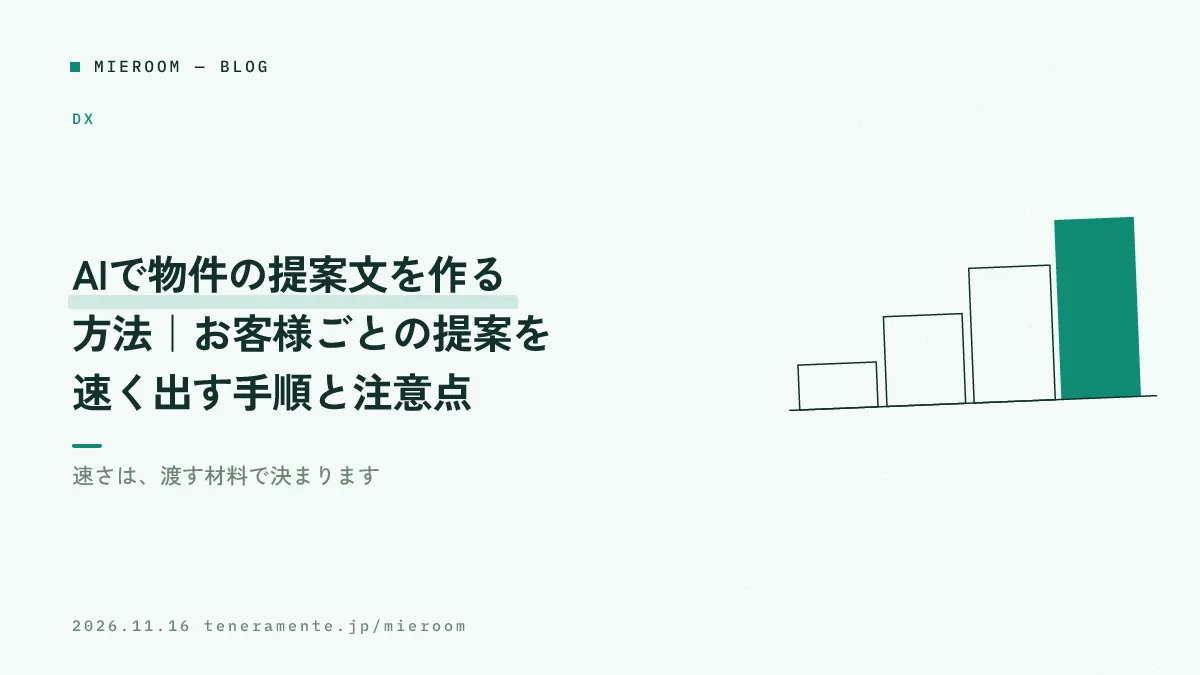
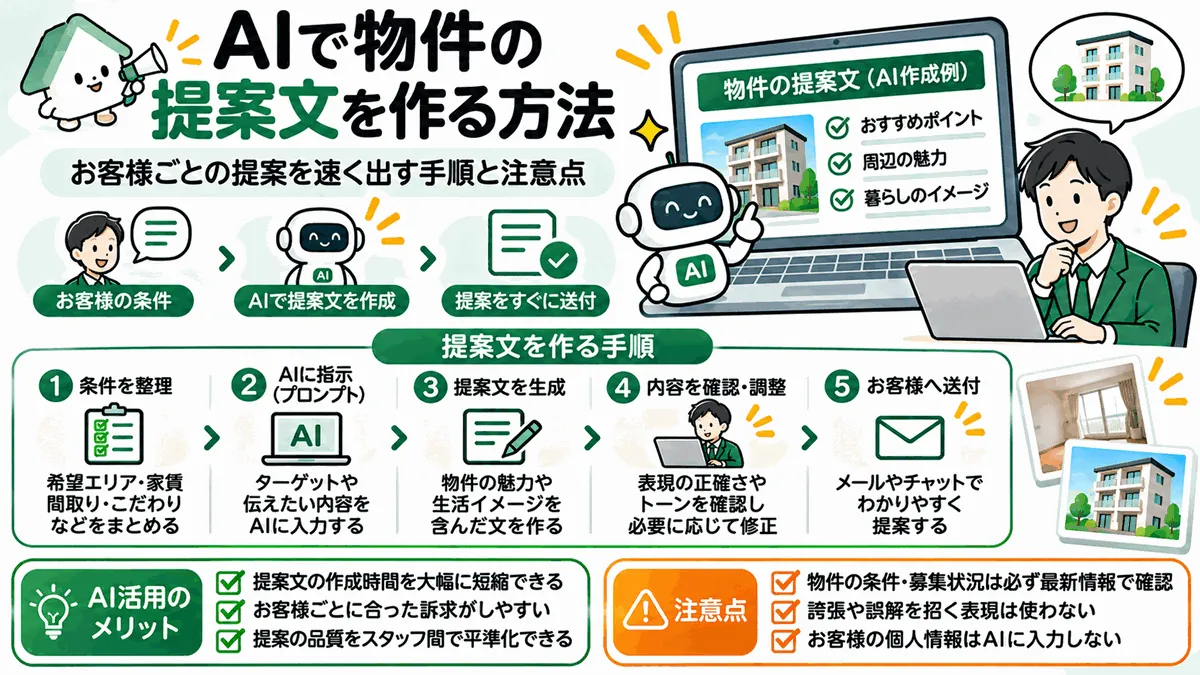
covers: 記事のトップ画像を ChatGPT の画像に差し替え（m112）

diff --git a/mieroom/articles/ai-bukken-teianbun.html b/mieroom/articles/ai-bukken-teianbun.html
@@ -13,12 +13,15 @@
 <meta property="og:description" content="AIで物件の提案文を作るときの手順を、渡す材料・指示文の型・人が確かめる項目に分けて整理しました。お客様の種類ごとの書き分け、任せてはいけない部分、よくある失敗の避け方までまとめています。">
 <meta property="og:url" content="https://mieroom.cloud/articles/ai-bukken-teianbun.html">
 <meta property="og:site_name" content="ミエルーム">
+<meta property="og:image" content="https://mieroom.cloud/assets/covers/ai-bukken-teianbun.png">
+<meta property="og:image:width" content="1200">
+<meta property="og:image:height" content="675">
 <meta name="twitter:card" content="summary_large_image">
 <link rel="preconnect" href="https://fonts.googleapis.com">
 <link rel="preconnect" href="https://fonts.gstatic.com" crossorigin>
 <link href="https://fonts.googleapis.com/css2?family=Noto+Sans+JP:wght@400;500;700;900&family=Zen+Kaku+Gothic+New:wght@500;700;900&display=swap" rel="stylesheet">
 <link rel="stylesheet" href="../assets/site.css">
-<script type="application/ld+json">{"@context":"https://schema.org","@graph":[{"@type":"BlogPosting","headline":"AIで物件の提案文を作る方法｜お客様ごとの提案を速く出す手順と注意点","description":"AIで物件の提案文を作るときの手順を、渡す材料・指示文の型・人が確かめる項目に分けて整理しました。お客様の種類ごとの書き分け、任せてはいけない部分、よくある失敗の避け方までまとめています。","datePublished":"2026-11-16","dateModified":"2026-11-16","inLanguage":"ja","mainEntityOfPage":"https://mieroom.cloud/articles/ai-bukken-teianbun.html","articleSection":"DX","author":{"@type":"Organization","name":"ミエルーム編集部"},"publisher":{"@type":"Organization","name":"株式会社TENERAMENTE","logo":{"@type":"ImageObject","url":"https://teneramente.jp/assets/img/favicon-512.png"}},"keywords":"AI活用, 物件提案, 接客, 追客, 賃貸仲介DX"},{"@type":"BreadcrumbList","itemListElement":[{"@type":"ListItem","position":1,"name":"ミエルーム","item":"https://mieroom.cloud/"},{"@type":"ListItem","position":2,"name":"ブログ","item":"https://mieroom.cloud/blog.html"},{"@type":"ListItem","position":3,"name":"AIで物件の提案文を作る方法｜お客様ごとの提案を速く出す手順と注意点","item":"https://mieroom.cloud/articles/ai-bukken-teianbun.html"}]},{"@type":"FAQPage","mainEntity":[{"@type":"Question","name":"AIが作った提案文を、そのままお客様に送ってよいですか？","acceptedAnswer":{"@type":"Answer","text":"送る前に人が確認してください。賃料や初期費用の数字、空室の状況、設備の有無はAIが知らない情報なので、資料と見比べる作業が必要です。確認したうえで、最後の一文だけは担当者の言葉に書き直すと、定型文の印象になりません。"}},{"@type":"Question","name":"どのAIを使えばよいですか？","acceptedAnswer":{"@type":"Answer","text":"文章の下書きを作る用途であれば、広く使われている生成AIのいずれでも実務に足ります。選ぶ基準は性能よりも、店舗のスタッフ全員が同じものを使えるか、入力した内容の扱いについて利用規約を確認できるか、の2点です。まず1つに決めて、型を共有することを優先してください。"}},{"@type":"Question","name":"お客様の情報を入力しても問題ありませんか？","acceptedAnswer":{"@type":"Answer","text":"お名前・連絡先・勤務先といった個人が特定できる情報は入力しないでください。提案文を作るのに必要なのは、希望条件・予算・入居時期・譲れない条件といった条件の情報だけです。店舗として入力してよい範囲を文字で決め、全員で共有しておくことをおすすめします。"}},{"@type":"Question","name":"文章が毎回似てしまいます。どうすればよいですか？","acceptedAnswer":{"@type":"Answer","text":"勧める理由が渡されていない場合に起こります。物件の事実だけを渡すと、言い換えの文章しか出せません。「このお客様にこの物件を勧める理由」を1〜2行書いて渡してください。理由が違えば、同じ物件でも文章の組み立てが変わります。"}},{"@type":"Question","name":"スタッフに使わせるとき、最初に何を決めればよいですか？","acceptedAnswer":{"@type":"Answer","text":"指示文の型、入力してよい情報の範囲、送信前に確認する項目の3つです。この3つを1枚にまとめて配れば、使い方の説明はほぼ終わります。細かい使いこなしは、使い始めてから持ち寄って型を直していくほうが早く定着します。"}}]}]}</script>
+<script type="application/ld+json">{"@context":"https://schema.org","@graph":[{"@type":"BlogPosting","headline":"AIで物件の提案文を作る方法｜お客様ごとの提案を速く出す手順と注意点","description":"AIで物件の提案文を作るときの手順を、渡す材料・指示文の型・人が確かめる項目に分けて整理しました。お客様の種類ごとの書き分け、任せてはいけない部分、よくある失敗の避け方までまとめています。","datePublished":"2026-11-16","dateModified":"2026-11-16","inLanguage":"ja","mainEntityOfPage":"https://mieroom.cloud/articles/ai-bukken-teianbun.html","image":"https://mieroom.cloud/assets/covers/ai-bukken-teianbun.png","articleSection":"DX","author":{"@type":"Organization","name":"ミエルーム編集部"},"publisher":{"@type":"Organization","name":"株式会社TENERAMENTE","logo":{"@type":"ImageObject","url":"https://teneramente.jp/assets/img/favicon-512.png"}},"keywords":"AI活用, 物件提案, 接客, 追客, 賃貸仲介DX"},{"@type":"BreadcrumbList","itemListElement":[{"@type":"ListItem","position":1,"name":"ミエルーム","item":"https://mieroom.cloud/"},{"@type":"ListItem","position":2,"name":"ブログ","item":"https://mieroom.cloud/blog.html"},{"@type":"ListItem","position":3,"name":"AIで物件の提案文を作る方法｜お客様ごとの提案を速く出す手順と注意点","item":"https://mieroom.cloud/articles/ai-bukken-teianbun.html"}]},{"@type":"FAQPage","mainEntity":[{"@type":"Question","name":"AIが作った提案文を、そのままお客様に送ってよいですか？","acceptedAnswer":{"@type":"Answer","text":"送る前に人が確認してください。賃料や初期費用の数字、空室の状況、設備の有無はAIが知らない情報なので、資料と見比べる作業が必要です。確認したうえで、最後の一文だけは担当者の言葉に書き直すと、定型文の印象になりません。"}},{"@type":"Question","name":"どのAIを使えばよいですか？","acceptedAnswer":{"@type":"Answer","text":"文章の下書きを作る用途であれば、広く使われている生成AIのいずれでも実務に足ります。選ぶ基準は性能よりも、店舗のスタッフ全員が同じものを使えるか、入力した内容の扱いについて利用規約を確認できるか、の2点です。まず1つに決めて、型を共有することを優先してください。"}},{"@type":"Question","name":"お客様の情報を入力しても問題ありませんか？","acceptedAnswer":{"@type":"Answer","text":"お名前・連絡先・勤務先といった個人が特定できる情報は入力しないでください。提案文を作るのに必要なのは、希望条件・予算・入居時期・譲れない条件といった条件の情報だけです。店舗として入力してよい範囲を文字で決め、全員で共有しておくことをおすすめします。"}},{"@type":"Question","name":"文章が毎回似てしまいます。どうすればよいですか？","acceptedAnswer":{"@type":"Answer","text":"勧める理由が渡されていない場合に起こります。物件の事実だけを渡すと、言い換えの文章しか出せません。「このお客様にこの物件を勧める理由」を1〜2行書いて渡してください。理由が違えば、同じ物件でも文章の組み立てが変わります。"}},{"@type":"Question","name":"スタッフに使わせるとき、最初に何を決めればよいですか？","acceptedAnswer":{"@type":"Answer","text":"指示文の型、入力してよい情報の範囲、送信前に確認する項目の3つです。この3つを1枚にまとめて配れば、使い方の説明はほぼ終わります。細かい使いこなしは、使い始めてから持ち寄って型を直していくほうが早く定着します。"}}]}]}</script>
 <style id="mp-nav-fit">
 /* 狭い画面ではヘッダーのボタンを小さくして、右にはみ出さないようにする */
 @media (max-width: 640px) {
@@ -72,7 +75,9 @@
     </div>
   </div>
 </section>
-
+<div class="post-cover">
+  <div class="band band--img"><img src="../assets/covers/ai-bukken-teianbun.webp" alt="AIで物件の提案文を作る方法｜お客様ごとの提案を速く出す手順と注意点" width="1200" height="675" decoding="async"></div>
+</div>
 <div class="post-body">
 <p>AIで物件の提案文を作るときに結果を分けるのは、AIの性能ではなく<strong>渡す材料の作り方</strong>です。お客様の条件と物件の事実を決まった形で渡せば、担当者が書くより速く、しかも読み手に合った下書きが出ます。この記事では、賃貸仲介の店舗で明日から使える手順と、人が必ず確かめる項目を順に整理します。</p>
 <div class="conclusion"><h4>この記事の結論</h4><p>AIに頼む前に、お客様の条件・物件の事実・断りたくない理由・文章の形式の4つを手元にそろえてください。<strong>材料がそろっていれば指示文は短くて済み</strong>、空室や賃料の確認だけを人が行う形にできます。</p></div>

diff --git a/mieroom/blog.html b/mieroom/blog.html
@@ -225,7 +225,7 @@ src="https://www.facebook.com/tr?id=28086413637650888&ev=PageView&noscript=1"
       </a>
 
       <a class="bpost" data-cat="DX" data-text="AIで物件の提案文を作る方法｜お客様ごとの提案を速く出す手順と注意点 AI活用 物件提案 接客 追客 賃貸仲介DX" href="articles/ai-bukken-teianbun.html">
-        <div class="bcover bcover--text"><span class="bct-cat">DX</span><b>AIで物件の提案文を作る方法｜お客様ごとの提案を速く出す手順と注意点</b></div>
+        <div class="bcover bcover--img"><img src="assets/covers/ai-bukken-teianbun-card.webp" alt="AIで物件の提案文を作る方法｜お客様ごとの提案を速く出す手順と注意点" loading="lazy" decoding="async" width="640" height="360"></div>
         <div class="bbody">
           <div class="bmeta"><span class="bcat">DX</span><span class="bdate">2026.11.16</span></div>
           <h3>AIで物件の提案文を作る方法｜お客様ごとの提案を速く出す手順と注意点</h3>
